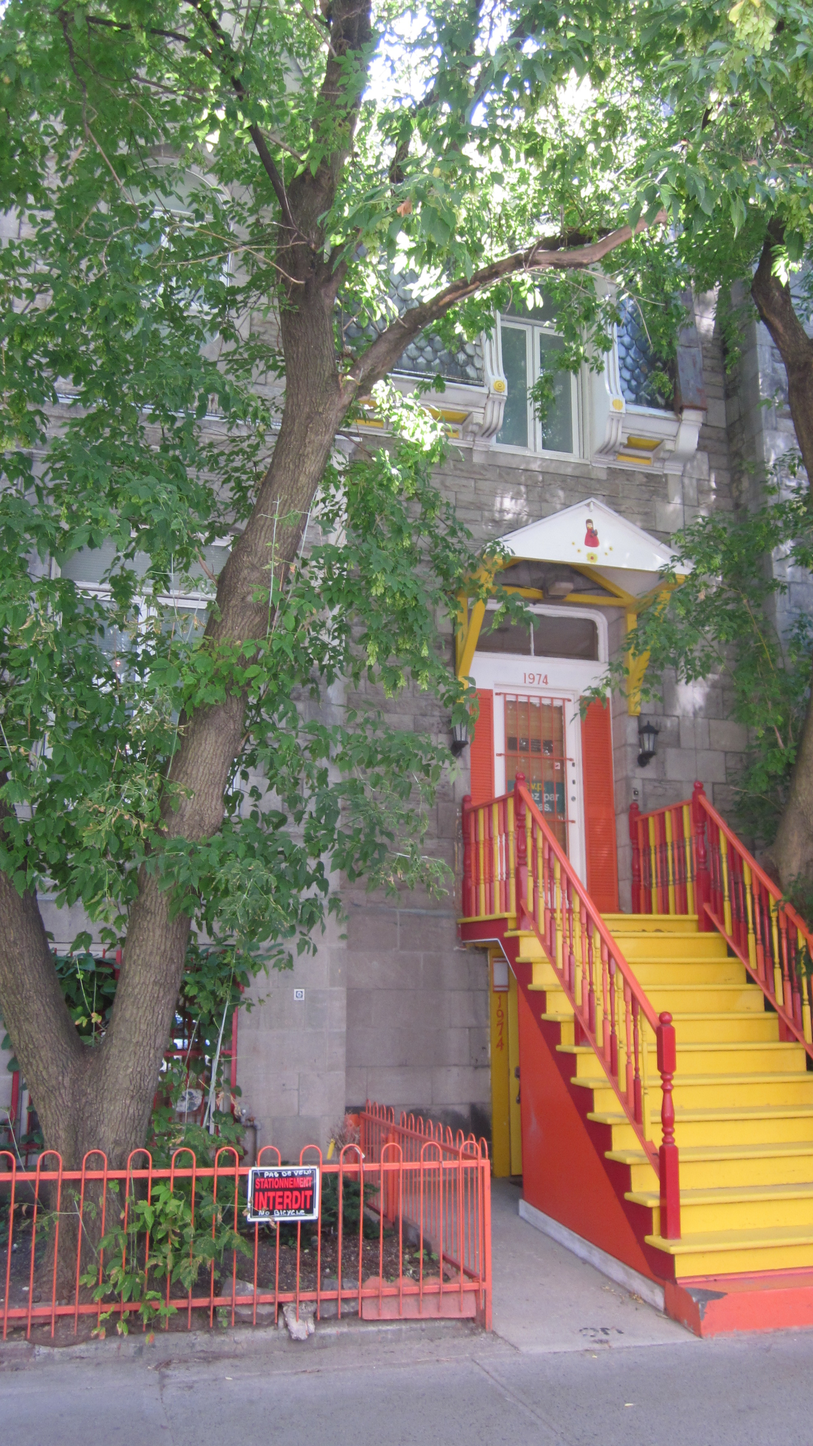
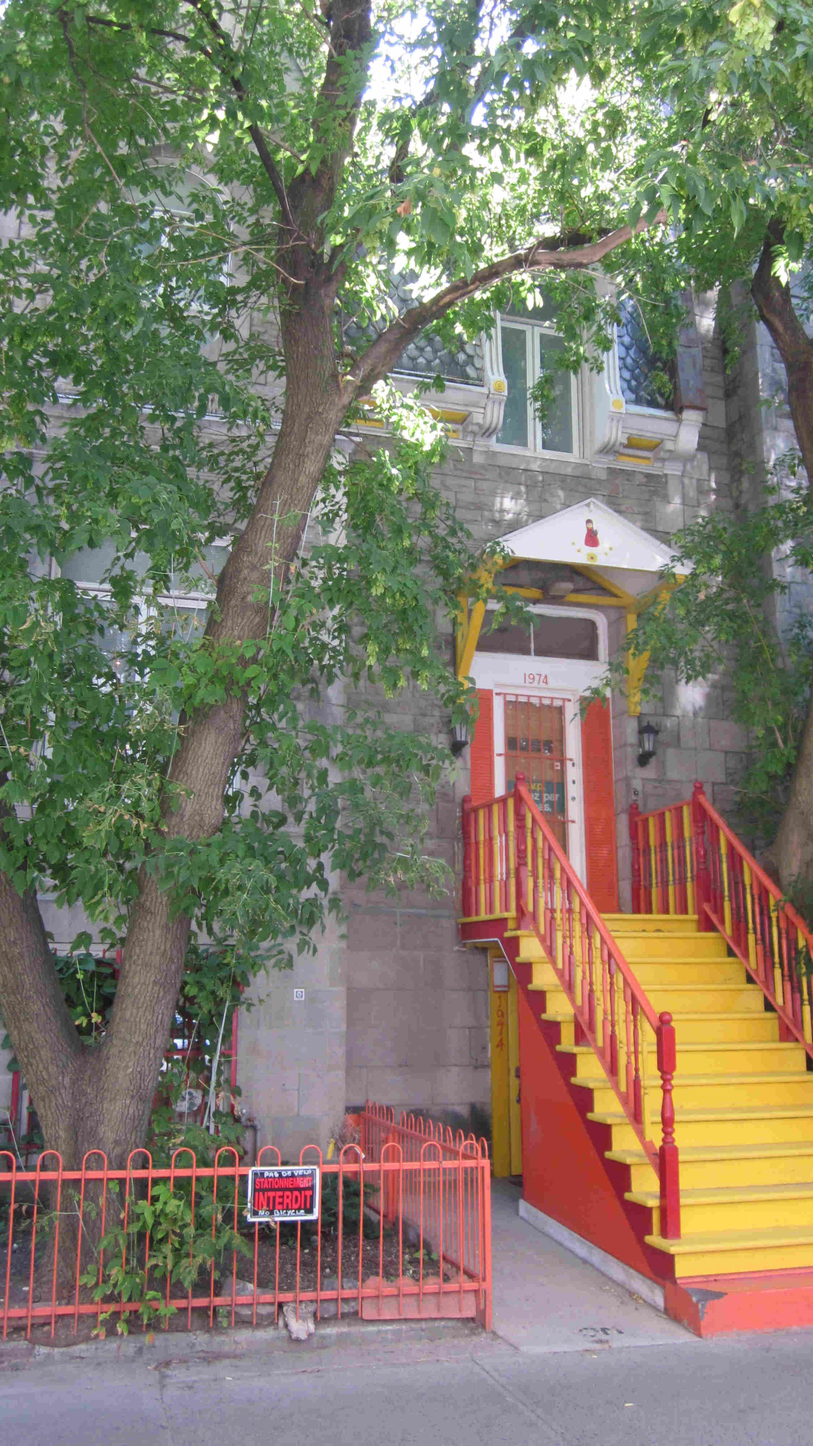
reduce image size

diff --git a/_pages/about.md b/_pages/about.md
@@ -3,7 +3,7 @@ title: Your first Quaker meeting in six steps
 lang: en
 trans: about
 ---
-1. [![](/assets/images/no-tie_color.png){: img_left height="40" class="down_a_bit_more"} You're welcome as you are. Dress comfortably (ties are fine too)](#notie){: id="linkoff"}  <br>
+1. &nbsp;[![](/assets/images/no-tie_color.png){: img_left height="35px" class="down_a_bit_more"} &nbsp;You're welcome as you are. Dress comfortably (ties are fine too)](#notie){: id="linkoff"}  <br>
 
 2. [<i class="fas fa-chair fa-fw fa-2x down_a_bit_more" style="color: #4d1a00;"></i> Sit anywhere you like](#chair){: id="linkoff"}
 

diff --git a/_pages/links_history.md b/_pages/links_history.md
@@ -1,5 +1,5 @@
 ---
-title: Links and History
+title: Links & History
 lang: en
 trans: links_history
 ---
